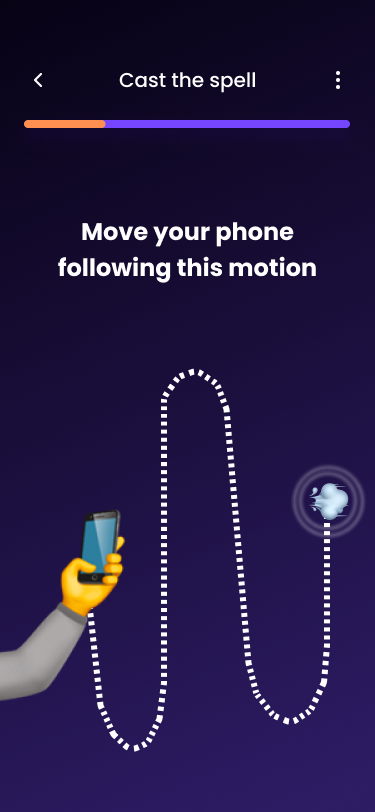
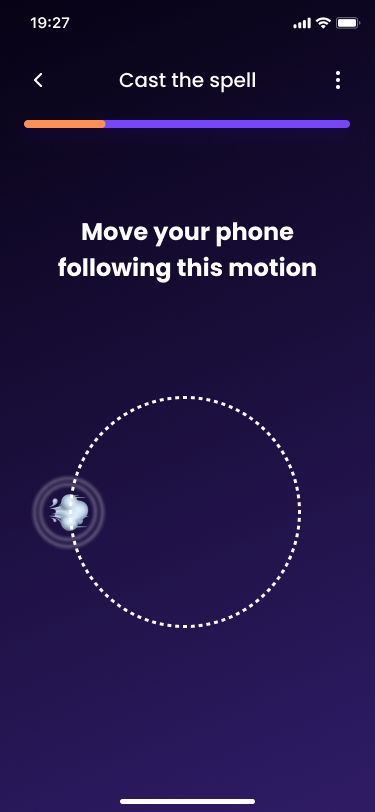
spell casting screen

diff --git a/src/screens/spell/StepTwo.tsx b/src/screens/spell/StepTwo.tsx
@@ -1,16 +1,118 @@
-import { StyleSheet, View } from 'react-native'
-
+import { useCallback, useEffect, useRef, useState } from "react";
+import {
+  Image,
+  StyleSheet,
+  Text,
+  TouchableWithoutFeedback,
+  View,
+} from "react-native";
+import {
+  InputDatum,
+  Movement,
+  detect_figure,
+} from "../../motionrecog/motion_recognition";
+import { DeviceMotion, DeviceMotionMeasurement } from "expo-sensors";
+import { UseNavigation } from "../../types/navigation";
+import { useNavigation } from "@react-navigation/native";
+import Deque from "double-ended-queue";
+import { Subscription } from "expo-sensors/build/Pedometer";
 
 export function StepTwo() {
+  const { navigate } = useNavigation<UseNavigation<"SpellCast">>();
+  // @ts-ignore
+  const motionData = useRef<InputDatum[]>([]);
+  const i = useRef<number>(0);
+
+  const listenerRef = useRef<Subscription[]>([]);
+
+  const handler = useCallback((data: DeviceMotionMeasurement) => {
+    if (data.acceleration) {
+      const datum = {
+        ax: data.acceleration.x,
+        ay: data.acceleration.y,
+        az: data.acceleration.z,
+        timestamp: data.interval,
+      };
+
+      motionData.current.push(datum);
+      i.current += 1;
+      if (motionData.current.length > 500) {
+        motionData.current.shift();
+      }
+    }
+    if (i.current % 20 == 0) {
+      i.current = 0;
+      let res = detect_figure(motionData.current);
+      console.log();
+      for (const movement of res) {
+        if (movement == Movement.circle) {
+          if (listenerRef.current.length > 0) {
+            listenerRef.current[0].remove();
+          }
+          navigate("StepThree");
+        }
+      }
+    }
+  }, []);
+
+  let [started, setStarted] = useState(false);
+
+  useEffect(() => {
+    let a = async () => {
+      await new Promise((resolve) => setTimeout(resolve, 300));
+      setStarted(true);
+    };
+    a();
+  });
+
+  useEffect(() => {
+    if (started) {
+      DeviceMotion.setUpdateInterval(1);
+      const listener = DeviceMotion.addListener(handler);
+      listenerRef.current.push(listener);
+      return () => listener.remove();
+    }
+  }, [started, handler]);
+
+  useEffect(() => {
+    (async () => {
+      const response = await DeviceMotion.requestPermissionsAsync();
+      if (!response.granted) {
+        console.warn("Device motion permission not granted");
+      }
+    })();
+  }, []);
+
   return (
     <View style={styles.screen}>
-      {/*  */}
+      <Image
+        source={require("../../../assets/spell/spell_step_2.png")}
+        style={styles.image}
+      />
     </View>
-  )
+  );
 }
 
 const styles = StyleSheet.create({
   screen: {
-    flex: 1
-  }
-})
+    flex: 1,
+    position: "relative",
+  },
+  image: {
+    objectFit: "cover",
+    width: "100%",
+    height: "100%",
+  },
+  buttonContainer: {
+    position: "absolute",
+    zIndex: 100,
+    backgroundColor: "#ffff00",
+    height: 100,
+    width: 100,
+  },
+  button: {
+    backgroundColor: "#ffff00",
+    height: 100,
+    width: 100,
+  },
+});

diff --git a/src/App.tsx b/src/App.tsx
@@ -12,7 +12,9 @@ import { NavigatorParamList } from "./types/navigation";
 import { MapScreen } from "./screens/map/MapScreen";
 import * as Location from "expo-location";
 import CastScreen from "./screens/cast/CastScreen";
-import { StepOne } from './screens/spell/StepOne'
+import { StepOne } from "./screens/spell/StepOne";
+import { StepTwo } from "./screens/spell/StepTwo";
+import { StepThree } from "./screens/spell/StepThree";
 
 // Create stack navigator
 const Stack = createNativeStackNavigator<NavigatorParamList>();
@@ -45,14 +47,19 @@ export default function App() {
                 component={MapScreen}
               />
               <Stack.Screen
-                name="Cast"
-                options={{ headerShown: false }}
-                component={CastScreen}
-              />
-              <Stack.Screen
                 name="Spell"
                 options={{ headerShown: false }}
                 component={StepOne}
+              />
+              <Stack.Screen
+                name="SpellCast"
+                options={{ headerShown: false }}
+                component={StepTwo}
+              />
+              <Stack.Screen
+                name="StepThree"
+                options={{ headerShown: false }}
+                component={StepThree}
               />
             </Stack.Navigator>
             <StatusBar style="auto" />

diff --git a/src/motionrecog/motion_recognition.ts b/src/motionrecog/motion_recognition.ts
@@ -1,4 +1,4 @@
-enum Movement {
+export enum Movement {
   unclassified = -1,
   line_y = 1,
   line_x = 2,
@@ -26,24 +26,24 @@ type Position = {
 };
 
 // TMP Ret type
-export function detect_figure(time_series: InputDatum[]): Position[] {
+export function detect_figure(time_series: InputDatum[]): Movement[] {
   let positions = track_position(time_series);
   // console.log(positions);
   let motion_periods = get_motion_periods(positions);
 
   if (!motion_periods) {
-    return [];
+    return [Movement.unclassified];
   }
 
+  let classifications: Movement[] = [];
   for (const mp of motion_periods) {
     let classification = classify_motion_period(mp);
     if (classification != Movement.unclassified) {
-      console.log(classification);
-      return motion_periods[0] || [];
+      classifications.push(classification);
     }
   }
-  // return Movement.unclassified;
-  return motion_periods[0] || [];
+  return classifications;
+  // return motion_periods[0] || [];
 }
 
 function classify_motion_period(motion_period: Position[]): Movement {

diff --git a/src/types/navigation.ts b/src/types/navigation.ts
@@ -1,19 +1,23 @@
-import { NavigationProp, RouteProp } from '@react-navigation/native'
-
+import { NavigationProp, RouteProp } from "@react-navigation/native";
 
 // Screens and their required parameters in this navigator
 export type NavigatorParamList = {
-  Home: undefined
-  Map: undefined
-  Other: { foo: string }
-  Cast : undefined
-  Spell: undefined
-}
+  Home: undefined;
+  Map: undefined;
+  Other: { foo: string };
+  SpellCast: undefined;
+  Spell: undefined;
+  StepThree: undefined;
+};
 
 // Helper type for useNavigation() hooks
-export type UseNavigation<T extends keyof NavigatorParamList> =
-  NavigationProp<NavigatorParamList, T>
+export type UseNavigation<T extends keyof NavigatorParamList> = NavigationProp<
+  NavigatorParamList,
+  T
+>;
 
 // Helper type for useRoute() hooks
-export type UseRoute<T extends keyof NavigatorParamList> =
-  RouteProp<NavigatorParamList, T>
+export type UseRoute<T extends keyof NavigatorParamList> = RouteProp<
+  NavigatorParamList,
+  T
+>;

diff --git a/src/screens/home/HomeScreen.tsx b/src/screens/home/HomeScreen.tsx
@@ -13,15 +13,9 @@ export function HomeScreen() {
         onPress={() => navigate("Other", { foo: "bar" })}
       />
       <Text>Home screen</Text>
-      <Button
-        title="To map screen"
-        onPress={() => navigate("Map")}
-      />
+      <Button title="To map screen" onPress={() => navigate("Map")} />
       <Text>Spell screen</Text>
-      <Button
-        title="To spell screen"
-        onPress={() => navigate("Spell")}
-      />
+      <Button title="To spell screen" onPress={() => navigate("SpellCast")} />
     </View>
   );
 }

diff --git a/src/screens/other/OtherScreen.tsx b/src/screens/other/OtherScreen.tsx
@@ -27,11 +27,11 @@ export function OtherScreen() {
       motionData.current.push(datum);
     }
     if (motionData.current.length % 20 == 0) {
-      let res = detect_figure(motionData.current).map((pos) => ({
-        x: pos.ax / 8 + 0.5,
-        y: -pos.ay / 8 + 0.5,
-      }));
-      setEntries(res);
+      // let res = detect_figure(motionData.current).map((pos) => ({
+      //   x: pos.ax / 8 + 0.5,
+      //   y: -pos.ay / 8 + 0.5,
+      // }));
+      // setEntries(res);
     }
   }, []);
 
